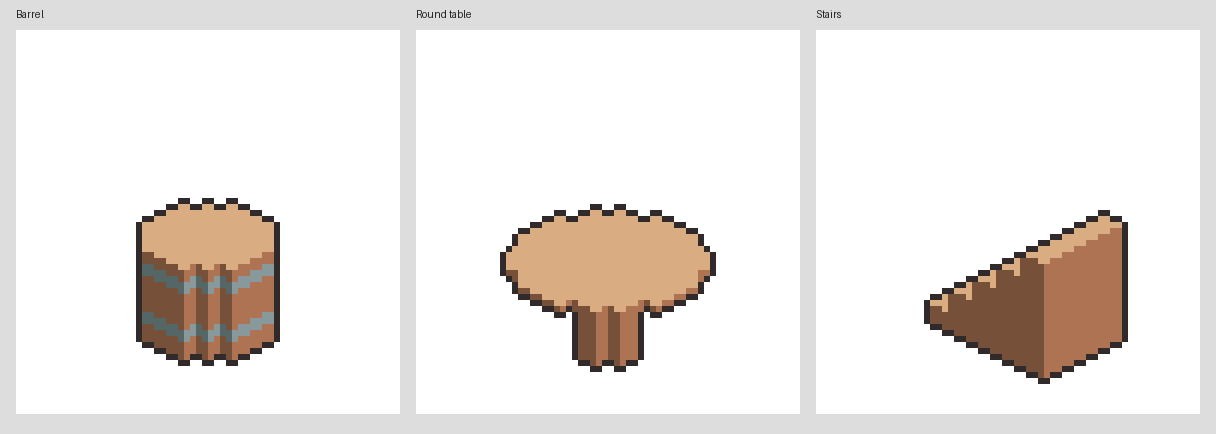
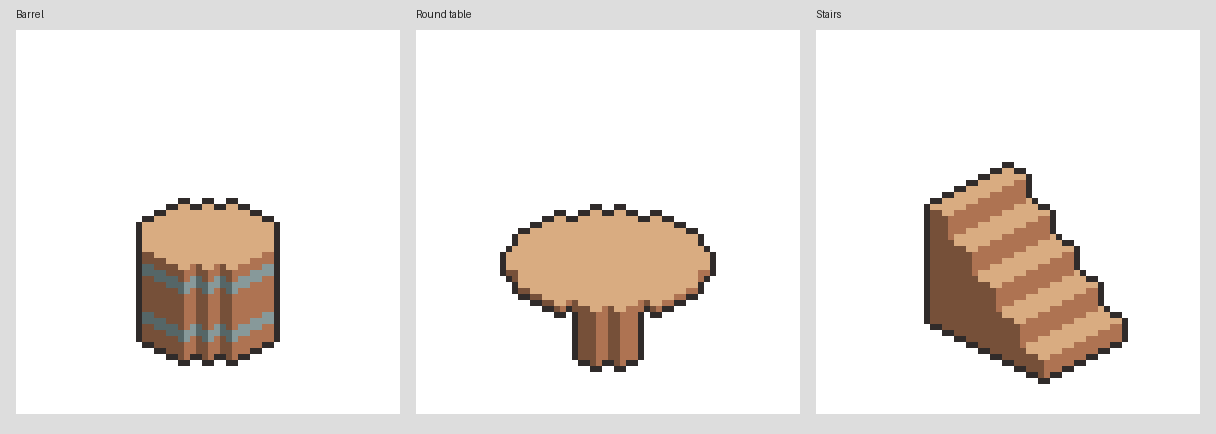
Allow stairs to face either direction

Changed region(s): [[0.75, 0.3594, 0.9375, 0.8387]]

diff --git a/tests/iso.rs b/tests/iso.rs
@@ -247,3 +247,50 @@ fn explicit_shape_fields_survive_serialization() {
         render(&copy).unwrap().into_raw()
     );
 }
+
+#[test]
+fn stairs_can_reverse_their_rise_direction() {
+    let forward = doc(
+        r#"[{"shape":"stairs_x","steps":4,"x":0,"y":0,"z":0,"w":8,"d":4,"h":8,"material":"wood"}]"#,
+        false,
+    );
+    let reversed = doc(
+        r#"[{"shape":"stairs_x","steps":4,"reverse":true,"x":0,"y":0,"z":0,"w":8,"d":4,"h":8,"material":"wood"}]"#,
+        false,
+    );
+    assert_ne!(
+        render(&forward).unwrap().into_raw(),
+        render(&reversed).unwrap().into_raw()
+    );
+    let copy: Document = serde_json::from_str(&serde_json::to_string(&reversed).unwrap()).unwrap();
+    assert_eq!(
+        render(&reversed).unwrap().into_raw(),
+        render(&copy).unwrap().into_raw()
+    );
+}
+#[test]
+fn reverse_is_rejected_for_cylinders_and_boxes() {
+    let d = doc(
+        r#"[{"shape":"cylinder","reverse":true,"x":0,"y":0,"z":0,"w":4,"d":4,"h":4,"material":"wood"}]"#,
+        false,
+    );
+    assert!(render(&d).unwrap_err().contains("reverse"));
+}
+
+#[test]
+fn reversed_stairs_match_explicit_descending_boxes() {
+    let stairs = doc(
+        r#"[{"shape":"stairs_x","steps":4,"reverse":true,"x":0,"y":0,"z":0,"w":8,"d":4,"h":8,"material":"wood"}]"#,
+        false,
+    );
+    let manual = doc(
+        r#"[
+      {"x":0,"y":0,"z":0,"w":2,"d":4,"h":8,"material":"wood"},
+      {"x":2,"y":0,"z":0,"w":2,"d":4,"h":6,"material":"wood"},
+      {"x":4,"y":0,"z":0,"w":2,"d":4,"h":4,"material":"wood"},
+      {"x":6,"y":0,"z":0,"w":2,"d":4,"h":2,"material":"wood"}
+    ]"#,
+        false,
+    );
+    assert_eq!(render(&stairs).unwrap(), render(&manual).unwrap());
+}

diff --git a/src/iso.rs b/src/iso.rs
@@ -28,6 +28,8 @@ pub struct IsoBox {
     pub shape: Shape,
     #[serde(default, skip_serializing_if = "Option::is_none")]
     pub steps: Option<u32>,
+    #[serde(default, skip_serializing_if = "std::ops::Not::not")]
+    pub reverse: bool,
     pub x: i32,
     pub y: i32,
     pub z: i32,
@@ -142,6 +144,9 @@ pub fn draw_scene(
         if !matches!(b.shape, Shape::StairsX | Shape::StairsY) && b.steps.is_some() {
             return Err("steps is only valid for stairs".into());
         }
+        if b.reverse && !matches!(b.shape, Shape::StairsX | Shape::StairsY) {
+            return Err("reverse is only valid for stairs".into());
+        }
         match b.shape {
             Shape::Box => expanded.push(b.clone()),
             Shape::Cylinder => {
@@ -189,7 +194,11 @@ pub fn draw_scene(
                     let mut part = b.clone();
                     part.shape = Shape::Box;
                     part.steps = None;
-                    part.h = (i + 1) * b.h / steps;
+                    part.h = if b.reverse {
+                        (steps - i) * b.h / steps
+                    } else {
+                        (i + 1) * b.h / steps
+                    };
                     if b.shape == Shape::StairsX {
                         part.x += start as i32;
                         part.w = end - start

diff --git a/README.md b/README.md
@@ -80,6 +80,6 @@ Entries in `boxes` may optionally specify `shape`: `box` (the default), `cylinde
 {"shape":"stairs_x", "x":0, "y":0, "z":0, "w":8, "d":4, "h":8, "steps":4, "material":"wood"}
 ```
 
-A cylinder is an upright extruded, grid-sampled ellipse, with `w` and `d` as its footprint dimensions; each must be at most 64 grid units. Its sides are faceted along the grid, not smoothly shaded. `stairs_x` and `stairs_y` ascend in the positive x or y direction. `steps` is required and must be between 1 and the smallest of 64, the length on the chosen axis, and `h`. Width and height are distributed across steps using integer division. These are stepped shapes, not smooth wedges. `steps` is rejected for boxes and cylinders. At most 4096 expanded box sections may appear in a scene, in addition to the 512 input-shape limit.
+A cylinder is an upright extruded, grid-sampled ellipse, with `w` and `d` as its footprint dimensions; each must be at most 64 grid units. Its sides are faceted along the grid, not smoothly shaded. `stairs_x` and `stairs_y` ascend in the positive x or y direction by default. Set `"reverse": true` to descend along that axis, which can make the treads visible from the current viewpoint. `reverse: true` is only valid for stairs. `steps` is required and must be between 1 and the smallest of 64, the length on the chosen axis, and `h`. Width and height are distributed across steps using integer division. These are stepped shapes, not smooth wedges. `steps` is rejected for boxes and cylinders. At most 4096 expanded box sections may appear in a scene, in addition to the 512 input-shape limit.
 
 [The shape showcase](examples/isometric-shapes/showcase.png) contains a barrel, a round table, and stairs; their editable JSON is alongside it.

diff --git a/SKILL.md b/SKILL.md
@@ -12,4 +12,4 @@ Use `cargo run -- inspect SOURCE` for JSON observations of rendered pixels. Rest
 
 For block-based isometric furniture, use `iso_scene` with material face colors. Its boxes share a depth buffer and a 2:1 projection; consult the README and `examples/isometric-boxes/` for coordinates. Start with one scene per object and position components in grid space. The optional outline covers only the combined silhouette. Check the actual render: coherent coordinates alone do not guarantee good silhouettes, appealing shapes, or clean pixel clusters. Add ordinary pixel/grid operations afterwards when needed.
 
-For rounded or stepped isometric parts, `iso_scene` entries can set `shape` to `cylinder`, `stairs_x`, or `stairs_y`; see README.md and `examples/isometric-shapes/`. Cylinders are grid-stepped, not smooth; stairs require a `steps` count. All components in one scene use the same depth test and materials. Inspect previews for faceting, proportions, and unintended overlaps.
+For rounded or stepped isometric parts, `iso_scene` entries can set `shape` to `cylinder`, `stairs_x`, or `stairs_y`; see README.md and `examples/isometric-shapes/`. Cylinders are grid-stepped, not smooth; stairs require a `steps` count, and `reverse: true` reverses their rise so treads can face the viewer. All components in one scene use the same depth test and materials. Inspect previews for faceting, proportions, and unintended overlaps.

diff --git a/examples/isometric-shapes/README.md b/examples/isometric-shapes/README.md
@@ -1,6 +1,6 @@
 # Isometric shape examples
 
-The barrel and round table combine upright grid-stepped cylinders with wood and metal materials. The stairs use `stairs_x` with five discrete steps. All use the existing scene projection, depth buffer, and silhouette outline. The examples are constructed from shapes in grid space; they do not use hand-placed 2D details.
+The barrel and round table combine upright grid-stepped cylinders with wood and metal materials. The stairs use `stairs_x` with five discrete steps and `reverse: true` so the treads face the viewer. All use the existing scene projection, depth buffer, and silhouette outline. The examples are constructed from shapes in grid space; they do not use hand-placed 2D details.
 
 ```sh
 cargo run -- render examples/isometric-shapes/barrel.json --output barrel.png
